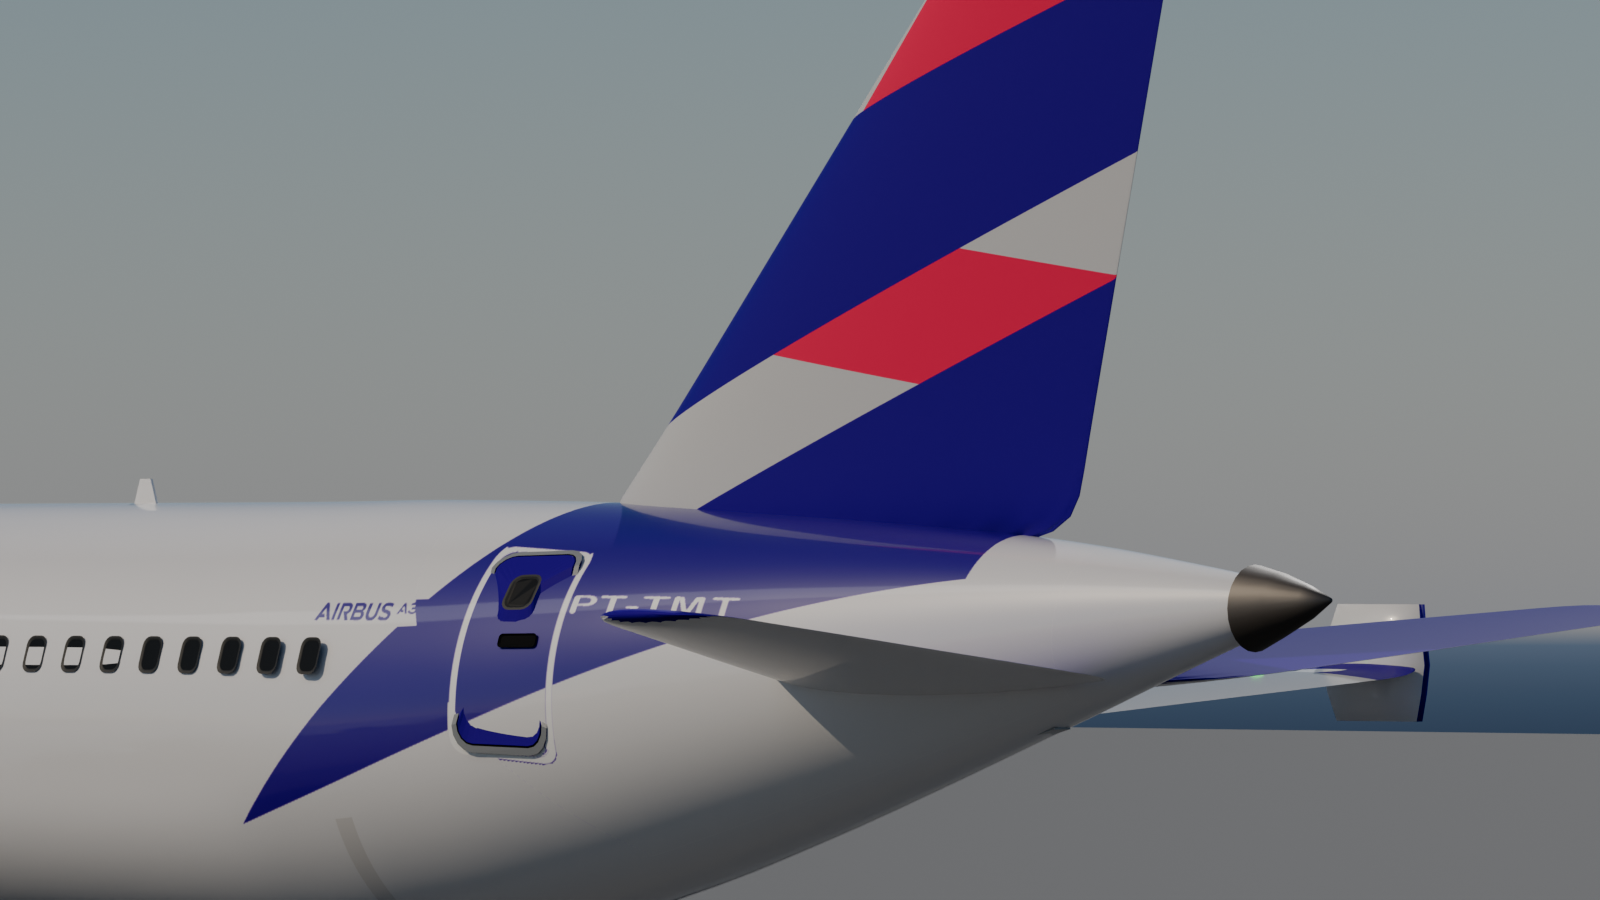
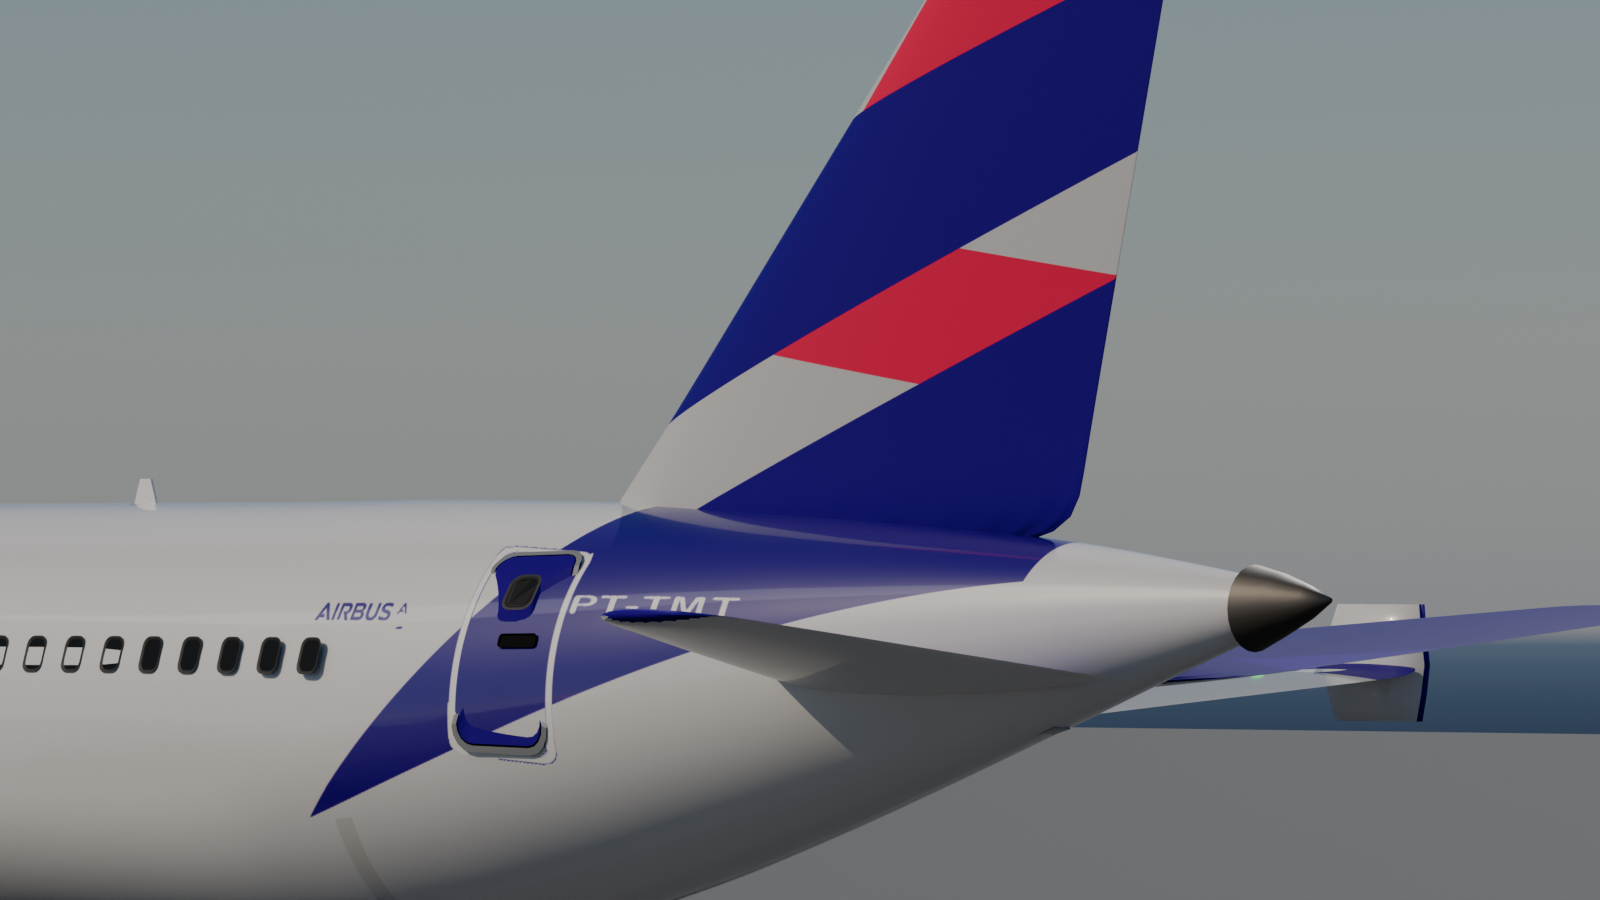
The A319 wedge, re-measured with the flank parallax in hand, and its gate re-shot
Closes the paint-truth round's render half: the eight gate angles over the
+0.76 m wedge move, the verification panel, and the gallery strip. The door
crossing lands at 58% of the leaf against the photograph's 57% - the check
no homography can distort.

diff --git a/PENDENCIAS.md b/PENDENCIAS.md
@@ -16,7 +16,7 @@ As duas metades resolvidas com UMA aeronave repintada, não cinco:
 - **As 4 cunhas suspeitas eram paralaxe de flanco**, não tinta: a retificação
   de 08-22 era controlada na deriva (y=0) mas a pele vive em |y|~2, e o
   deslocamento y·v aparece inteiro na fronteira. Com v medido no estabilizador
-  de cada quadro e dois quadros por aeronave: A320ceo −0,03, A321neo
+  de cada quadro (e dois quadros independentes onde havia): A320ceo −0,03, A321neo
   +0,25/+0,18 (flancos opostos), 767-300ER +0,03/+0,15 — exoneradas. A320neo:
   sem veredito no quadro PT-TMN (1024 px); a frota atual (PR-XBP) veste a
   fronteira +0,95 m atrás — variante de era, registrada, não aplicada.
